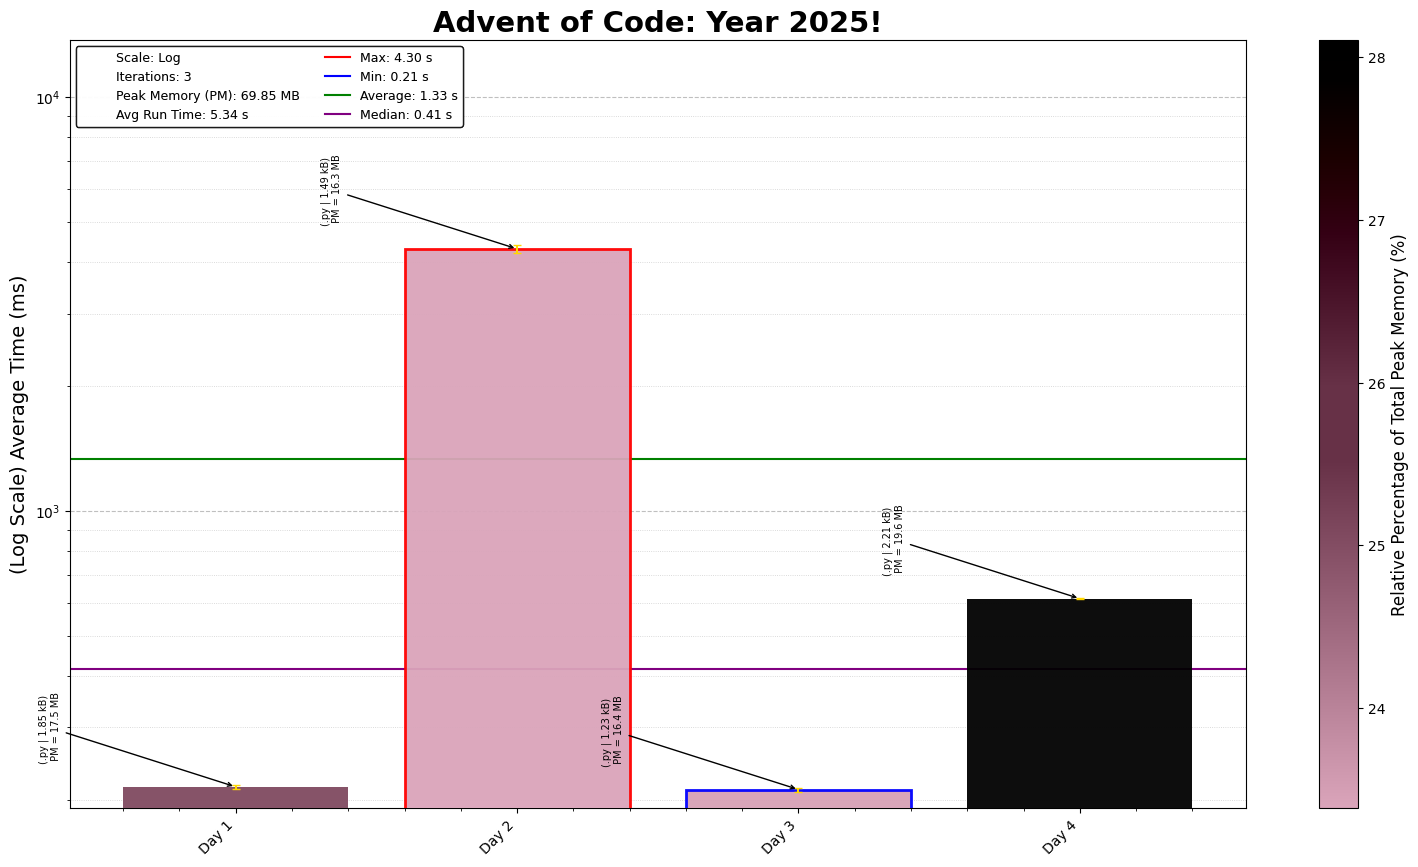
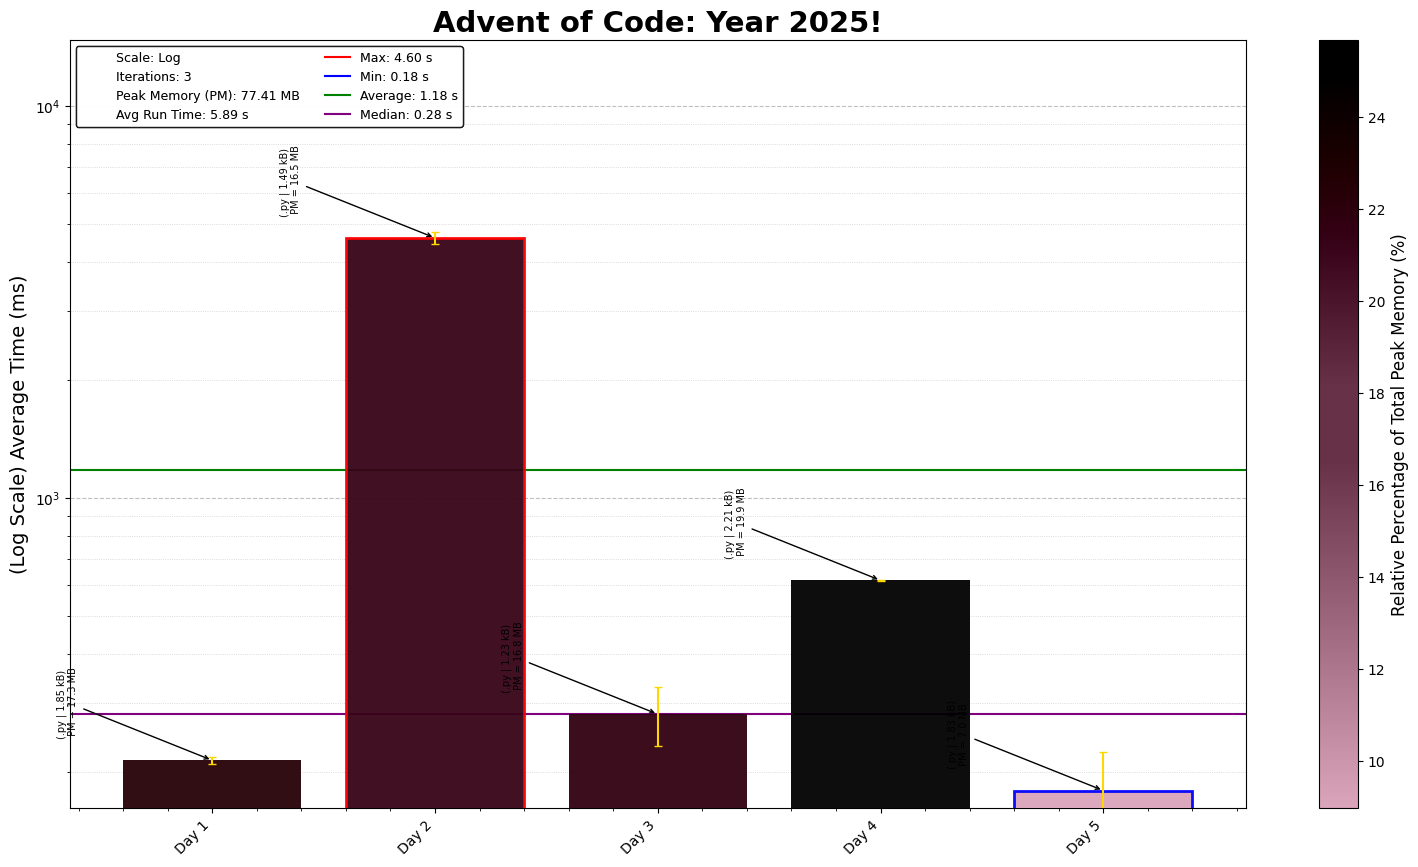
AoC 2025 Day 05: Cafeteria

diff --git a/2025/05/2025Day05.py b/2025/05/2025Day05.py
@@ -1,0 +1,60 @@
+"""Advent of Code - Day 5, Year 2025
+Solution Started: December 5, 2025
+Puzzle Link: https://adventofcode.com/2025/day/5
+Solution by: Abbas Moosajee
+Brief: [Cafeteria]"""
+
+#!/usr/bin/env python3
+from pathlib import Path
+
+# Load input file
+input_file = "Day05_input.txt"
+input_path = Path(__file__).parent / input_file
+
+with input_path.open("r", encoding="utf-8") as f:
+    data = f.read().split("\n\n")
+
+class AOC_Cafeteria:
+    def __init__(self, inp_data):
+        self.fresh_range = [tuple(map(int, id_range.split("-"))) for id_range in data[0].split("\n")]
+        self.ingredients = list(map(int, data[1].split("\n")))
+
+    def check_freshness(self, ingr):
+        for start, end in self.fresh_range:
+            if start <= ingr <= end:
+                return True
+        return False
+
+    def count_fresh_ingredients(self):
+        fresh_count = 0
+        for check_ing in self.ingredients:
+            fresh = self.check_freshness(check_ing)
+            if fresh:
+                fresh_count += 1
+        return fresh_count
+
+    def count_total(self):
+        sorted_range = sorted(self.fresh_range, key=lambda x: x[0])
+
+        merged_range = []
+        current_start, current_end = sorted_range[0]
+
+        for start, end in sorted_range[1:]:
+            if start <= current_end + 1:
+                current_end = max(current_end, end)
+            else:
+                merged_range.append((current_start, current_end))
+                current_start, current_end = start, end
+
+        merged_range.append((current_start, current_end))
+
+        total = 0
+        for start, end in merged_range:
+            total += (end - start) + 1
+
+        return total
+
+cafe = AOC_Cafeteria(data)
+
+print("AoC Day 05, P1:", cafe.count_fresh_ingredients())
+print("AoC Day 05, P2:", cafe.count_total())

diff --git a/2025/README_2025.md b/2025/README_2025.md
@@ -8,3 +8,4 @@ This repository contains coding solutions for the 2025 Advent of Code.
 2. **Day 2 - Gift Shop** *Python* | Identifying and counting invalid ids, but remember duplicating can be avoided using sets.
 3. **Day 3 - Lobby** | *Python* | Maximising the number built in a list of numbers
 4. **Day 4 - Printing Department**: *Python* | Pretty simple grid problem, and if you dont compute unnecessary things it runs faster.
+5. **Day 5 - Cafeteria**: *Python* | Validating a set of numbers through a series of ranges, and then counting all the numbers.
